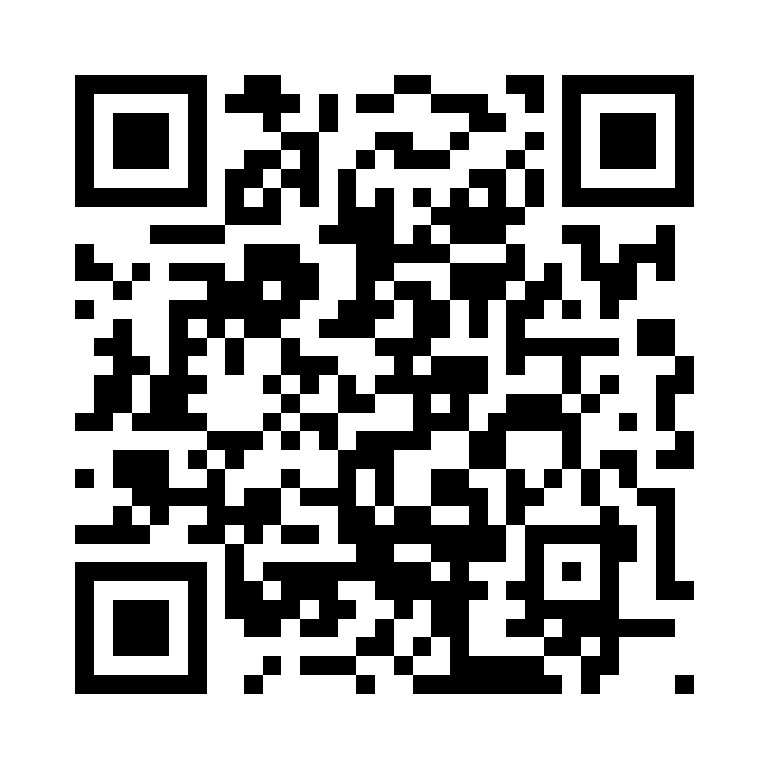
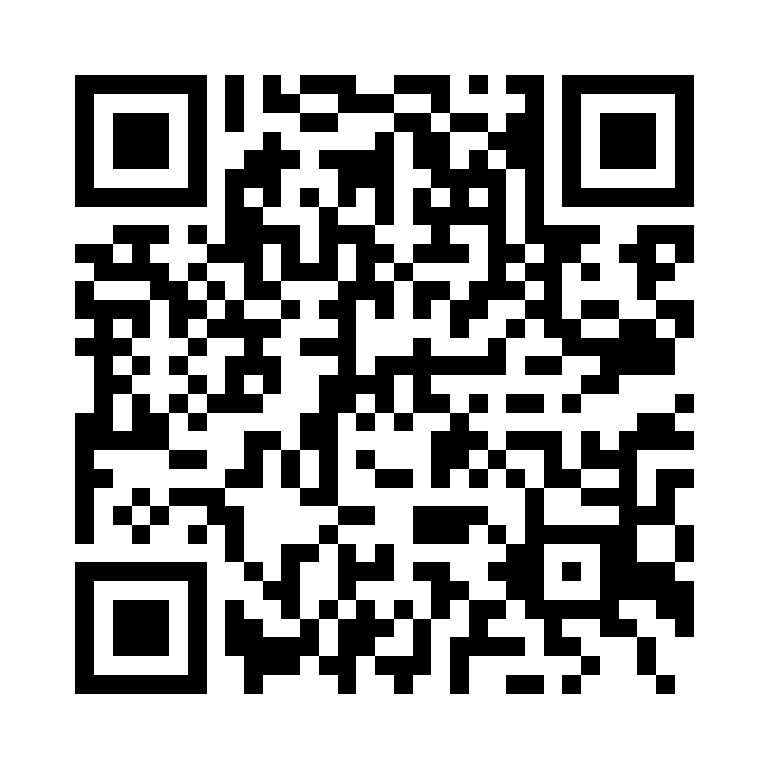
Use free LoveRabbit Vercel domain

Changed region(s): [[0.0938, 0.0938, 0.9062, 0.9062]]

diff --git a/src/components/AppHome.tsx b/src/components/AppHome.tsx
@@ -11,7 +11,7 @@ import { useTheme } from "@/components/ThemeProvider";
 // 상품 데이터는 lib/products.ts 단일 소스에서 온다 (상세 판매 페이지와 공유).
 import { PRODUCTS, type Product } from "@/lib/products";
 
-const SITE_URL = "https://loverabbit-one.vercel.app/";
+const SITE_URL = "https://loverabbit-ai.vercel.app/";
 const LOCAL_TEST_URL = "http://192.168.219.108:3000/?v=qr-price3";
 
 const HERO_IDS = ["sokgunghap", "jaehoe", "bamgijil"];

diff --git a/src/app/layout.tsx b/src/app/layout.tsx
@@ -19,7 +19,7 @@ const themeInitScript = `
 `;
 
 export const metadata: Metadata = {
-  metadataBase: new URL("https://loverabbit-one.vercel.app"),
+  metadataBase: new URL("https://loverabbit-ai.vercel.app"),
   title: "러브레빗 LoveRabbit — 19금 속궁합·연애운 AI 사주",
   description:
     "낮의 사주는 잊어라. 성인 전용, 솔직하다 못해 아찔한 속궁합·연애운 리딩. 3분이면 끝.",
